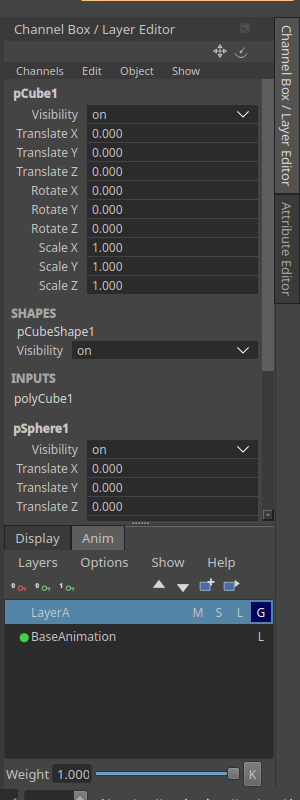
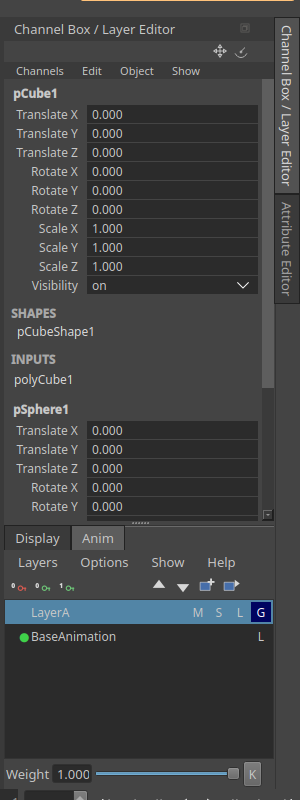
Channel Box: record the Visibility order and update the picture

diff --git a/PARITY.md b/PARITY.md
@@ -4172,7 +4172,8 @@ cycle and its outputs are left unconnected; ikSpringSolver.
 ![The Channel Box and Layer Editor](docs/channel-box.png)
 
 The Channel Box now stacks every selected object, lead last, with the reference's per-object name, channels, SHAPES,
-INPUTS and OUTPUTS; Show ▸ Assets chooses all attributes or the selected object's, and its Attributes filter has All,
+INPUTS and OUTPUTS; Visibility is the last channel of the selected object and is not shown on its shapes, history
+nodes or outputs; Show ▸ Assets chooses all attributes or the selected object's, and its Attributes filter has All,
 Keyable, Non-keyable and Connected with Invert Shown and Show All. The three buttons above the channels are in: the
 manipulator cycle, the slider speed cycle and the hyperbolic toggle, with the reference's tooltips and icons. The panel
 has the reference's empty-selection message, a full Edit menu (the same editors, attributes and Channel Box settings
